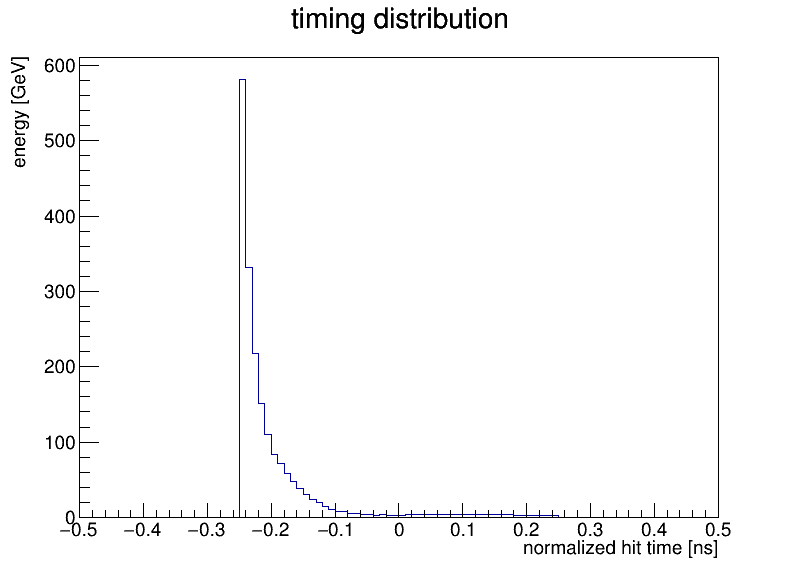
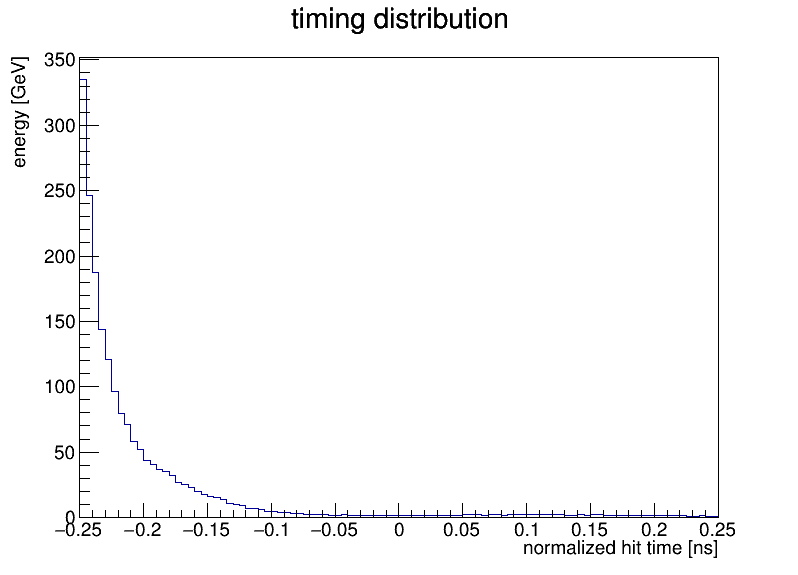
Debugged overlay code. Updated img folder

diff --git a/overlay.cc b/overlay.cc
@@ -1,4 +1,4 @@
-#define converter_new_cxx
+#define overlay_cxx
 #include "overlay.h"
 #include <TH2.h>
 #include <TStyle.h>
@@ -10,6 +10,7 @@
 #include <iostream>
 #include <set>
 #include <TMath.h>
+#include <iomanip>
 
 // A SET OF GLOBAL VARIABLES -----------------------------------------------
 
@@ -18,7 +19,7 @@ const std::vector<float> _halflength_x = {397.8, 418.2, 428.4, 438.6, 448.8};
 const int _bins_z = 435;
 const float _halflength_z = 2213.2;
 
-bool DEBUG = true;
+bool DEBUG = false;
 
 // SOME HELPER FUNCTIONS ---------------------------------------------------
 
@@ -100,9 +101,20 @@ std::vector<double> Rotate(double x, double y, double angle)
     return new_coords;
 }
 
+void updateProgressBar(int progress, int total, int barWidth = 50) {
+    float fraction = static_cast<float>(progress) / total;
+    int progressWidth = static_cast<int>(fraction * barWidth);
+
+    std::cout << "\r[";
+    for (int i = 0; i < progressWidth; ++i) std::cout << "=";
+    for (int i = progressWidth; i < barWidth; ++i) std::cout << " ";
+    std::cout << "] " << std::setw(3) << static_cast<int>(fraction * 100.0) << "%";
+    std::cout.flush();
+}
+
 // CODE STARTS HERE! ----------------------------------------------------------
 
-void converter_new::Loop()
+void overlay::Loop()
 {
     if (fChain == nullptr)
         return;
@@ -161,6 +173,7 @@ void converter_new::Loop()
         for (Long64_t jentry = 100 * i_file; jentry < 100 * (i_file + 1); jentry++)
         {
             // if(jentry>0){continue;}  // Cut for DEBUG
+            updateProgressBar(jentry, 100 * (i_file + 1));
             Long64_t ientry = LoadTree(jentry);
             if (ientry < 0)
                 break;
@@ -224,7 +237,7 @@ void converter_new::Loop()
                     if(DEBUG) std::cout << "Getting: " << Form("h_layer_%d_%d", w, i_layer) << "\n";
                     bib_layers[i_layer] = dynamic_cast<TH2D *>(bib_file->Get(Form("h_layer_%d_%d", w, i_layer))->Clone());
                     if(DEBUG) std::cout << "energy hist " << w << '_' << i_layer << '_' << bib_file->Get(Form("h_layer_%d_%d", w, i_layer))->Clone() << std::endl;
-                    bib_t_layers[i_layer] = dynamic_cast<TH2D *>(bib_t_file->Get(Form("h_layer_%d_%d", w, i_layer))->Clone());
+                    bib_t_layers[i_layer] = dynamic_cast<TH2D *>(bib_t_file->Get(Form("h_layer_t_%d_%d", w, i_layer))->Clone());
                     if(DEBUG) std::cout << "time hist " << w << '_' << i_layer << '_' << bib_t_layers[i_layer]->GetName() << std::endl;
                 }
                 if(DEBUG) std::cout << "---> Got bib layers\n";
@@ -242,9 +255,9 @@ void converter_new::Loop()
                         layers_t[layer_idx]->Fill(sig_z[i_hits], coords[0], sig_t[i_hits]);
                     }
                 } 
-                auto h_tim_signal   = new TH1D("h_tim_signal", "h_tim_signal", 100, -0.6, 1.5);
-                auto h_tim_bib      = new TH1D("h_tim_bib", "h_tim_bib", 100, -0.6, 1.5);
-                auto h_tim_overall  = new TH1D("h_tim_overall", "h_tim_overall", 100, -0.6, 1.5);
+                auto h_tim_signal   = new TH1D("h_tim_signal", "h_tim_signal", 25, -0.25, 0.25);
+                auto h_tim_bib      = new TH1D("h_tim_bib", "h_tim_bib", 25, -0.25, 0.25);
+                auto h_tim_overall  = new TH1D("h_tim_overall", "h_tim_overall", 25, -0.25, 0.25);
                 
 
                 for (int i_layer = 0; i_layer < 5; ++i_layer)
@@ -269,7 +282,7 @@ void converter_new::Loop()
                             double angle = (8. - w) * TMath::Pi() / 6;
                             std::vector<double> final_xy = Rotate(inner_x, 1510. + i_layer * 45., -angle);
 
-                            // if (TMath::Abs(z) < 250 && TMath::Abs(calculateTheta(final_xy[0], final_xy[1]) - theta_mean) < theta_std)
+                            if (TMath::Abs(z) < 300 && TMath::Abs(calculateTheta(final_xy[0], final_xy[1]) - theta_mean) < theta_std)
                             {
                                 hit_x.push_back(final_xy[0]);
                                 hit_y.push_back(final_xy[1]);
@@ -287,11 +300,11 @@ void converter_new::Loop()
                                     double shift = r/3.E2;
                                     h_tim_signal->Fill(t_sig-shift, dE_signal);
                                     h_tim_bib->Fill(t_bib, dE_bib);
-                                    auto t_hit = t_sig*1e-2-shift < t_bib ? t_sig*1e-2 : t_bib;
+                                    auto t_hit = t_sig-shift < t_bib ? t_sig : t_bib;
                                     h_tim_overall->Fill(t_hit, dE_signal);
-                                    //if(DEBUG){
-                                        std::cout << t_sig-shift << " " << t_sig << " " << shift << " " << t_bib << std::endl;
-                                    //}
+                                    
+                                    if(DEBUG) std::cout << t_sig-shift << " " << t_sig << " " << shift << " " << t_bib << std::endl;
+                                    
                                 }
                             }
                         }
@@ -304,15 +317,18 @@ void converter_new::Loop()
                 if (jentry == 1)
                 {
                     TCanvas *c1 = new TCanvas("c1", "c1", 800, 600);
-                    // c1->SetLogy();
+                    c1->SetLogy();
                     // Title
-                    h_tim_bib->SetTitle("BIB timing");
-                    //h_tim_signal->SetLineColor(858);
+                    h_tim_signal->SetTitle("crilin ntuple timing");
+                    h_tim_signal->SetLineColor(858);
+                    // Axis labels
+                    h_tim_signal->GetXaxis()->SetTitle("Time [ns]");
+                    h_tim_signal->GetYaxis()->SetTitle("Energy [GeV]");
                     
                     h_tim_bib->SetLineColor(795);
-                    h_tim_bib->Draw("hist");
-                    /*
+                    h_tim_bib->SetLineWidth(2);
                     h_tim_overall->SetLineColor(kSpring-6);
+                    h_tim_signal->SetLineWidth(2);
                     h_tim_overall->SetFillColor(kSpring-5);
                     h_tim_overall->SetFillStyle(3001);
                     // no stats
@@ -337,15 +353,12 @@ void converter_new::Loop()
                     leg->SetBorderSize(0);
                     // legend location top right
                     leg->Draw();
-                    */
                     
-                    c1->SaveAs("timing_hist_bib.png");
-                    std::cout << "Total signal deposited: " << h_tim_signal->Integral() << std::endl;
+                    c1->SaveAs("timing_hist_full.png");
+                    if(DEBUG) std::cout << "Total signal deposited: " << h_tim_signal->Integral() << std::endl;
+                    // close canvas
+                    delete c1;
                 }
-                // delete histograms
-                // delete h_tim_signal;
-                // delete h_tim_bib;
-                // delete h_tim_overall;
 
                 if(DEBUG) std::cout << "---> Reset layers \n";
                 for (auto &elem : bib_layers)
@@ -377,6 +390,6 @@ void converter_new::Loop()
         tree->Write();
         ofile->Close();
 
-        std::cout << "--> Wrote file #" << i_file << "\n";
+        std::cout << "\n--> Wrote file #" << i_file << "\n";
     }
 }

diff --git a/overlay.h b/overlay.h
@@ -5,8 +5,8 @@
 // found on file: /home/sestini/photons_Crilin_v2/simulation/ddsim/crilin_v2/175GeV_1.57rad/photonGun_175GeV_1.57rad_gen_crilin_v2.root
 //////////////////////////////////////////////////////////
 
-#ifndef converter_new_h
-#define converter_new_h
+#ifndef overlay_h
+#define overlay_h
 
 #include <TROOT.h>
 #include <TChain.h>
@@ -15,7 +15,7 @@
 
 // Header file for the classes stored in the TTree if any.
 
-class converter_new {
+class overlay {
 public :
 
    TTree          *fChain;   //!pointer to the analyzed TTree or TChain
@@ -69,8 +69,8 @@ public :
    TBranch        *b_scmcc;   //!
    TBranch        *b_sctim;   //!
 
-   converter_new(TTree *tree=0);
-   virtual ~converter_new();
+   overlay(TTree *tree=0);
+   virtual ~overlay();
    virtual Int_t    Cut(Long64_t entry);
    virtual Int_t    GetEntry(Long64_t entry);
    virtual Long64_t LoadTree(Long64_t entry);
@@ -82,8 +82,8 @@ public :
 
 #endif
 
-#ifdef converter_new_cxx
-converter_new::converter_new(TTree *tree) : fChain(0) 
+#ifdef overlay_cxx
+overlay::overlay(TTree *tree) : fChain(0) 
 {
 // if parameter tree is not specified (or zero), connect the file
 // used to generate this class and read the Tree.
@@ -99,19 +99,19 @@ converter_new::converter_new(TTree *tree) : fChain(0)
    Init(tree);
 }
 
-converter_new::~converter_new()
+overlay::~overlay()
 {
    if (!fChain) return;
    delete fChain->GetCurrentFile();
 }
 
-Int_t converter_new::GetEntry(Long64_t entry)
+Int_t overlay::GetEntry(Long64_t entry)
 {
 // Read contents of entry.
    if (!fChain) return 0;
    return fChain->GetEntry(entry);
 }
-Long64_t converter_new::LoadTree(Long64_t entry)
+Long64_t overlay::LoadTree(Long64_t entry)
 {
 // Set the environment to read one entry
    if (!fChain) return -5;
@@ -124,7 +124,7 @@ Long64_t converter_new::LoadTree(Long64_t entry)
    return centry;
 }
 
-void converter_new::Init(TTree *tree)
+void overlay::Init(TTree *tree)
 {
    // The Init() function is called when the selector needs to initialize
    // a new tree or chain. Typically here the branch addresses and branch
@@ -163,7 +163,7 @@ void converter_new::Init(TTree *tree)
    Notify();
 }
 
-Bool_t converter_new::Notify()
+Bool_t overlay::Notify()
 {
    // The Notify() function is called when a new file is opened. This
    // can be either for a new TTree in a TChain or when when a new TTree
@@ -174,18 +174,18 @@ Bool_t converter_new::Notify()
    return kTRUE;
 }
 
-void converter_new::Show(Long64_t entry)
+void overlay::Show(Long64_t entry)
 {
 // Print contents of entry.
 // If entry is not specified, print current entry
    if (!fChain) return;
    fChain->Show(entry);
 }
-Int_t converter_new::Cut(Long64_t entry)
+Int_t overlay::Cut(Long64_t entry)
 {
 // This function may be called from Loop.
 // returns  1 if entry is accepted.
 // returns -1 otherwise.
    return 1;
 }
-#endif // #ifdef converter_new_cxx
+#endif // #ifdef overlay_cxx
